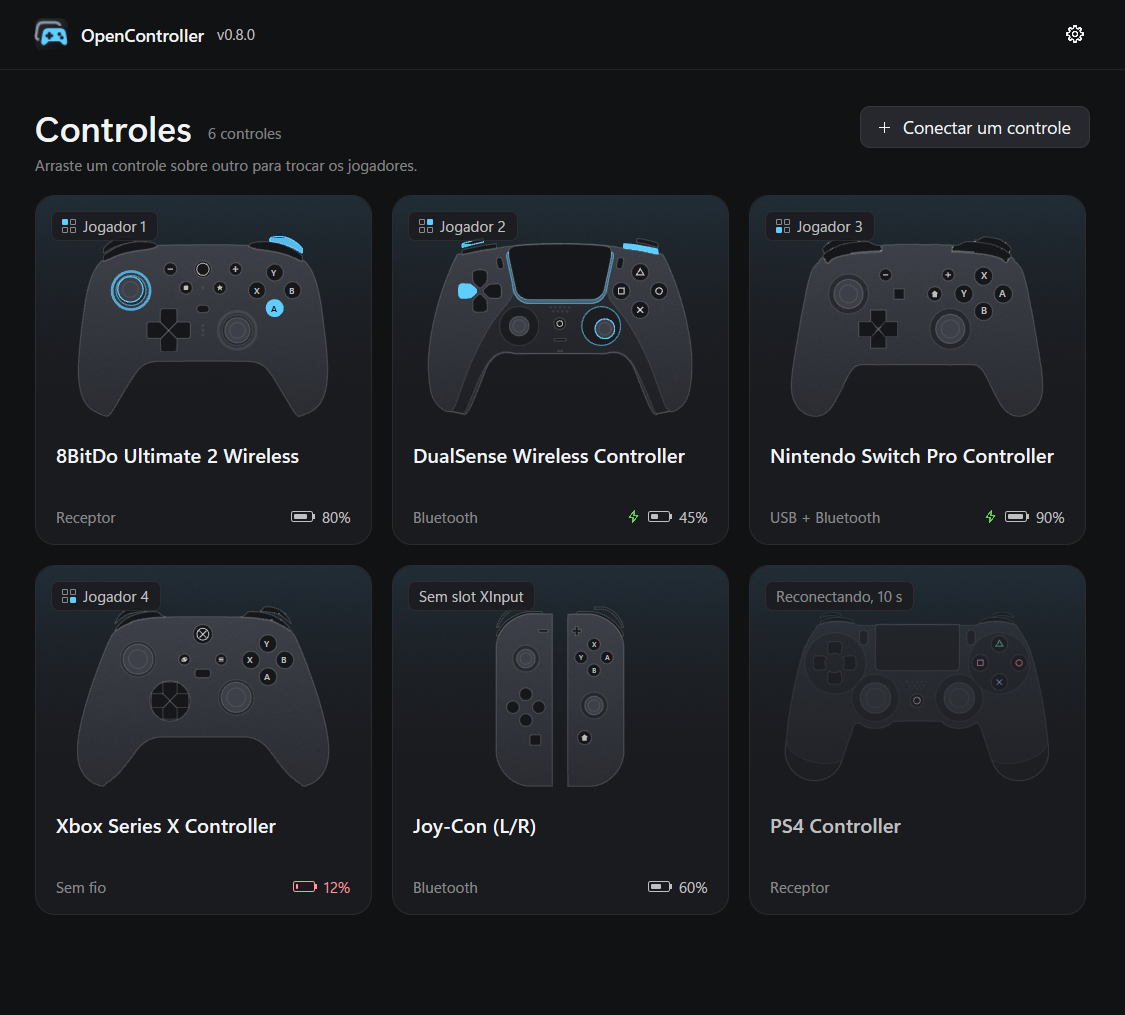
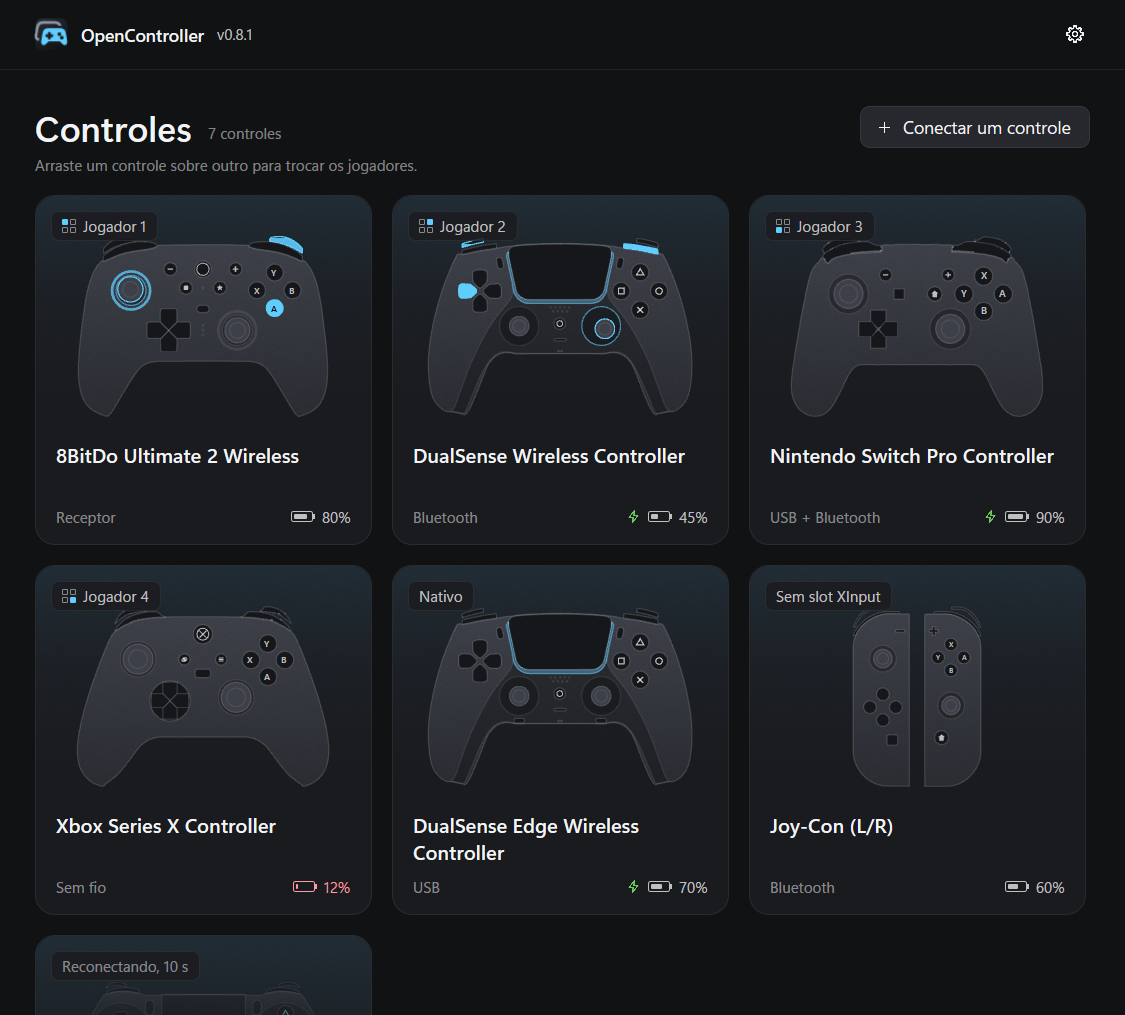
Keep native, VIIPER and finer gyro in the FAQ, 0.8.1 screenshot

diff --git a/components/Faq.tsx b/components/Faq.tsx
@@ -55,15 +55,22 @@ const QA: { q: { en: string; pt: string }; a: { en: ReactNode; pt: ReactNode } }
   {
     q: { en: "Will games show PlayStation button icons?", pt: "Os jogos vão mostrar os ícones do PlayStation?" },
     a: {
-      en: "No. Games show Xbox button icons, since that is the controller they see. For the same reason, special features like the DualSense's adaptive triggers don't reach games.",
-      pt: "Não. Os jogos mostram os ícones do Xbox, já que é esse o controle que eles veem. Pelo mesmo motivo, recursos especiais como os gatilhos adaptáveis do DualSense não chegam aos jogos.",
+      en: "Not by default. Games show Xbox button icons, since that is the controller they see, and special features like the DualSense's adaptive triggers don't reach them. If a game supports your controller, open it in the app and turn on Keep native. The game then sees the real controller, with its own icons, adaptive triggers and, over the cable, haptic feedback. This also lets the app work alongside a DS5Dongle. While a controller is native, its profiles, gyro aiming and remapped buttons are off. Close the game before switching.",
+      pt: "Não por padrão. Os jogos mostram os ícones do Xbox, já que é esse o controle que eles veem, e recursos especiais como os gatilhos adaptáveis do DualSense não chegam a eles. Se o jogo aceita o seu controle, abra-o no app e ligue Deixar nativo. Aí o jogo vê o controle de verdade, com os próprios ícones, os gatilhos adaptáveis e, no cabo, a vibração háptica. Isso também permite usar o app junto com um DS5Dongle. Enquanto o controle está nativo, os perfis, a mira com giroscópio e os botões remapeados ficam desligados. Feche o jogo antes de trocar.",
     },
   },
   {
     q: { en: "Can more than four people play?", pt: "Dá para jogar com mais de quatro pessoas?" },
     a: {
-      en: "Most PC games accept up to four controllers. Some newer games accept more, and the app lets you know when that happens.",
-      pt: "A maioria dos jogos de PC aceita até quatro controles. Alguns jogos mais novos aceitam mais, e o app avisa quando é o caso.",
+      en: "Most PC games accept up to four controllers. Some newer games accept more, and the app lets you know when that happens. On Linux, players past the fourth get their own number too.",
+      pt: "A maioria dos jogos de PC aceita até quatro controles. Alguns jogos mais novos aceitam mais, e o app avisa quando é o caso. No Linux, os jogadores depois do quarto também ganham o próprio número.",
+    },
+  },
+  {
+    q: { en: "A game doesn't see my controller, or my PC gets blue screens.", pt: "Um jogo não vê meu controle, ou o PC dá tela azul." },
+    a: {
+      en: "On Windows, you can try VIIPER. In Settings, under Advanced, the virtual controllers can be made with VIIPER instead of ViGEmBus. It is experimental and off by default, and ViGEmBus is still the recommended choice, but switching can help. Close your games first. Requirements then installs what VIIPER needs when you click, which can ask for administrator rights and a restart. If VIIPER doesn't start, the app goes back to ViGEmBus and tells you.",
+      pt: "No Windows, dá para experimentar o VIIPER. Em Configurações, em Avançado, os controles virtuais podem ser criados pelo VIIPER em vez do ViGEmBus. Ele é experimental e vem desligado, e o ViGEmBus continua sendo o recomendado, mas trocar pode ajudar. Feche os jogos antes. Depois, em Requisitos, o app instala com um clique o que o VIIPER precisa, o que pode pedir permissão de administrador e reiniciar o PC. Se o VIIPER não iniciar, o app volta para o ViGEmBus e avisa.",
     },
   },
   {

diff --git a/components/Features.tsx b/components/Features.tsx
@@ -104,8 +104,8 @@ export function Features() {
       <div className="mt-14 grid gap-3 lg:grid-cols-6">
         <Card className="lg:col-span-3" title={<T en="Works in your games" pt="Funciona nos seus jogos" />} visual={<StepsVisual />}>
           <T
-            en="Connect your controller and open a game. Buttons, sticks, triggers and vibration work the way you expect. Xbox controllers already work in games, so it leaves those alone."
-            pt="Conecte o controle e abra o jogo. Botões, analógicos, gatilhos e vibração funcionam do jeito que você espera. Controle de Xbox já funciona nos jogos, então ele nem mexe nesses."
+            en="Connect your controller and open a game. Buttons, sticks, triggers and vibration work the way you expect. Xbox controllers already work in games, so it leaves those alone. If a game supports your controller as it is, you can keep it native and the game sees the real one."
+            pt="Conecte o controle e abra o jogo. Botões, analógicos, gatilhos e vibração funcionam do jeito que você espera. Controle de Xbox já funciona nos jogos, então ele nem mexe nesses. Se um jogo aceita o seu controle do jeito que ele é, dá para deixá-lo nativo e o jogo vê o controle de verdade."
           />
         </Card>
 
@@ -129,8 +129,8 @@ export function Features() {
 
         <Card className="lg:col-span-3" title={<T en="Your way" pt="Do seu jeito" />} visual={<SetupsVisual />}>
           <T
-            en="If you want, give your controller's extra buttons something to do, aim with the gyro, and save a setup for each game that switches on by itself when the game opens. It's all optional: your controller works without any of it."
-            pt="Se quiser, dê uma função aos botões extras, mire com o giroscópio e salve uma configuração para cada jogo, que entra sozinha quando o jogo abre. É tudo opcional: o controle já funciona sem mexer em nada."
+            en="If you want, give your controller's extra buttons something to do, aim with the gyro, tuned the way you like, and save a setup for each game that switches on by itself when the game opens. It's all optional: your controller works without any of it."
+            pt="Se quiser, dê uma função aos botões extras, mire com o giroscópio no ajuste que preferir e salve uma configuração para cada jogo, que entra sozinha quando o jogo abre. É tudo opcional: o controle já funciona sem mexer em nada."
           />
         </Card>
 

diff --git a/components/Performance.tsx b/components/Performance.tsx
@@ -43,8 +43,8 @@ export function Performance() {
           <MemoryBars />
           <p className="mt-8 font-mono text-[11.5px] leading-relaxed text-faint">
             <T
-              en="Measured on version 0.8.0, Windows 11, as Task Manager shows it, with no controller connected. With the window open it ranged from 30 to 35 MB. On macOS the window exits when closed starting with the version after 0.8.0."
-              pt="Medido na versão 0.8.0, no Windows 11, como aparece no Gerenciador de Tarefas, sem controle conectado. Com a janela aberta ficou entre 30 e 35 MB. No macOS a janela sai ao fechar a partir da versão seguinte à 0.8.0."
+              en="Measured on version 0.8.0, Windows 11, as Task Manager shows it, with no controller connected. With the window open it ranged from 30 to 35 MB. On macOS the window exits when closed starting with version 0.8.1."
+              pt="Medido na versão 0.8.0, no Windows 11, como aparece no Gerenciador de Tarefas, sem controle conectado. Com a janela aberta ficou entre 30 e 35 MB. No macOS a janela sai ao fechar a partir da versão 0.8.1."
             />
           </p>
         </article>
